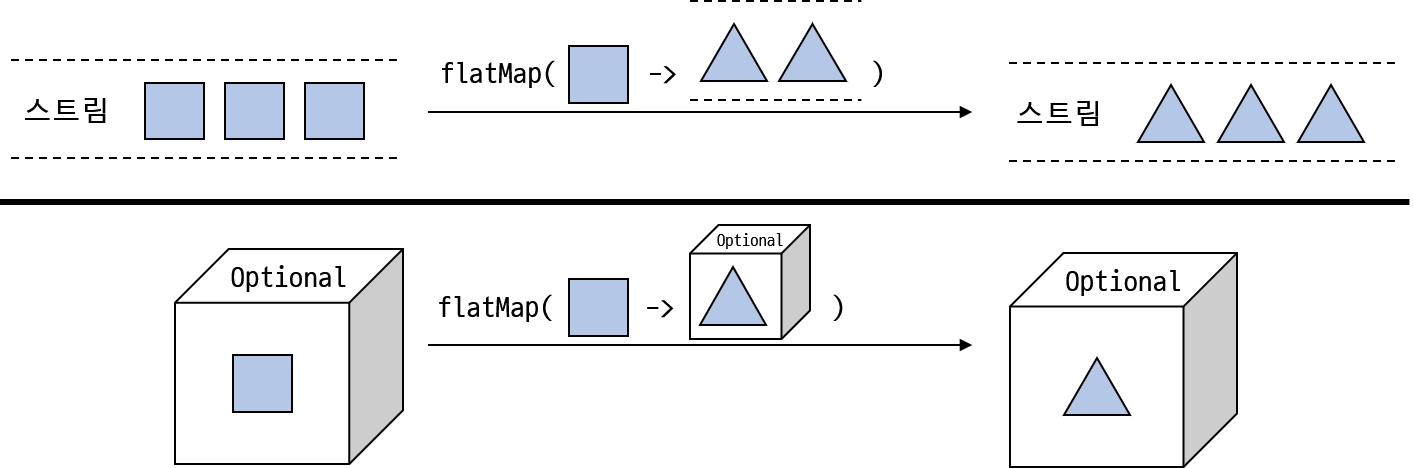
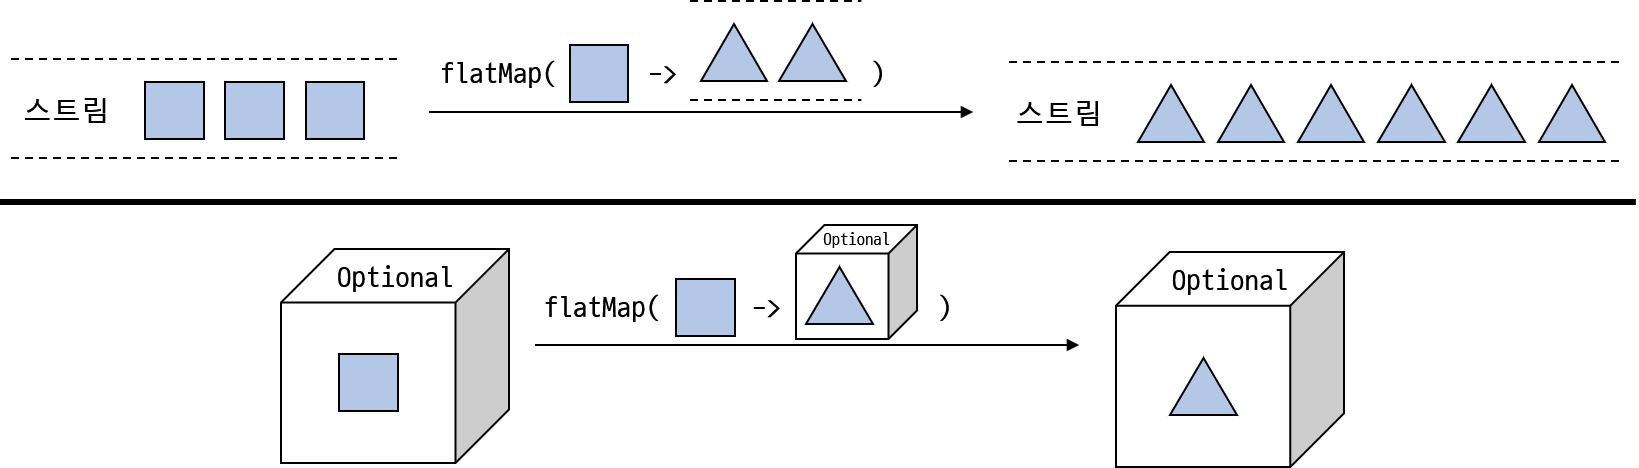
md 파일 오타 수정 및 이미지 오타 수정

diff --git a/modern-java/optional/11장. null 대신 Optional 클래스/11-2. Optional 클래스 소개.md b/modern-java/optional/11장. null 대신 Optional 클래스/11-2. Optional 클래스 소개.md
@@ -5,7 +5,7 @@
 
 - 값이 있으면 Optional 클래스는 값을 감싼다.
 - 값이 없으면 Optional.empty() 메서드로 Optional을 반환
-    - Optional.empty()는 Optional의 특별한 싱글턴 이니스턴스를 반환하는 정적 팩토리 메서드다
+    - Optional.empty()는 Optional의 특별한 싱글턴 인스턴스를 반환하는 정적 팩토리 메서드다
 - null을 참조하려 하면 NullPointerException이 발생하지만 Optional.empty()는 Optional 객체이므로 이를 다양한 방식으로 활용할 수 있다.
 - Optional을 사용하면서 Car의 형식이 ```Optional<Car>```로 바뀌었는데, 이는 값이 없을 수 있음을 명시적으로 보여준다.
 - Optional을 사용하지 않는 경우에는 반드시 객체가 존재해야 함을 의미한다. (null 처리를 하지 않은 경우)

diff --git a/modern-java/optional/11장. null 대신 Optional 클래스/11-3. Optional 적용 패턴.md b/modern-java/optional/11장. null 대신 Optional 클래스/11-3. Optional 적용 패턴.md
@@ -56,7 +56,7 @@
         - 평준화 과정이란 이론적으로 두 Optional을 합치는 기능을 수행하면서 둘 중 하나라도 null이면 빈 Optional을 생성하는 연산이다.
         ```java
         public String getCarInsuranceName(Optional<Person> person) {
-        	return person.flatMap(Person::getName)
+        	return person.flatMap(Person::getCar)
                                 .flatMap(Car::getInsurance)
                                 .map(Insurance::getName)
                                 .orElse("Unknown"); // 결과 Optional이 비어있으면 기본값 사용
